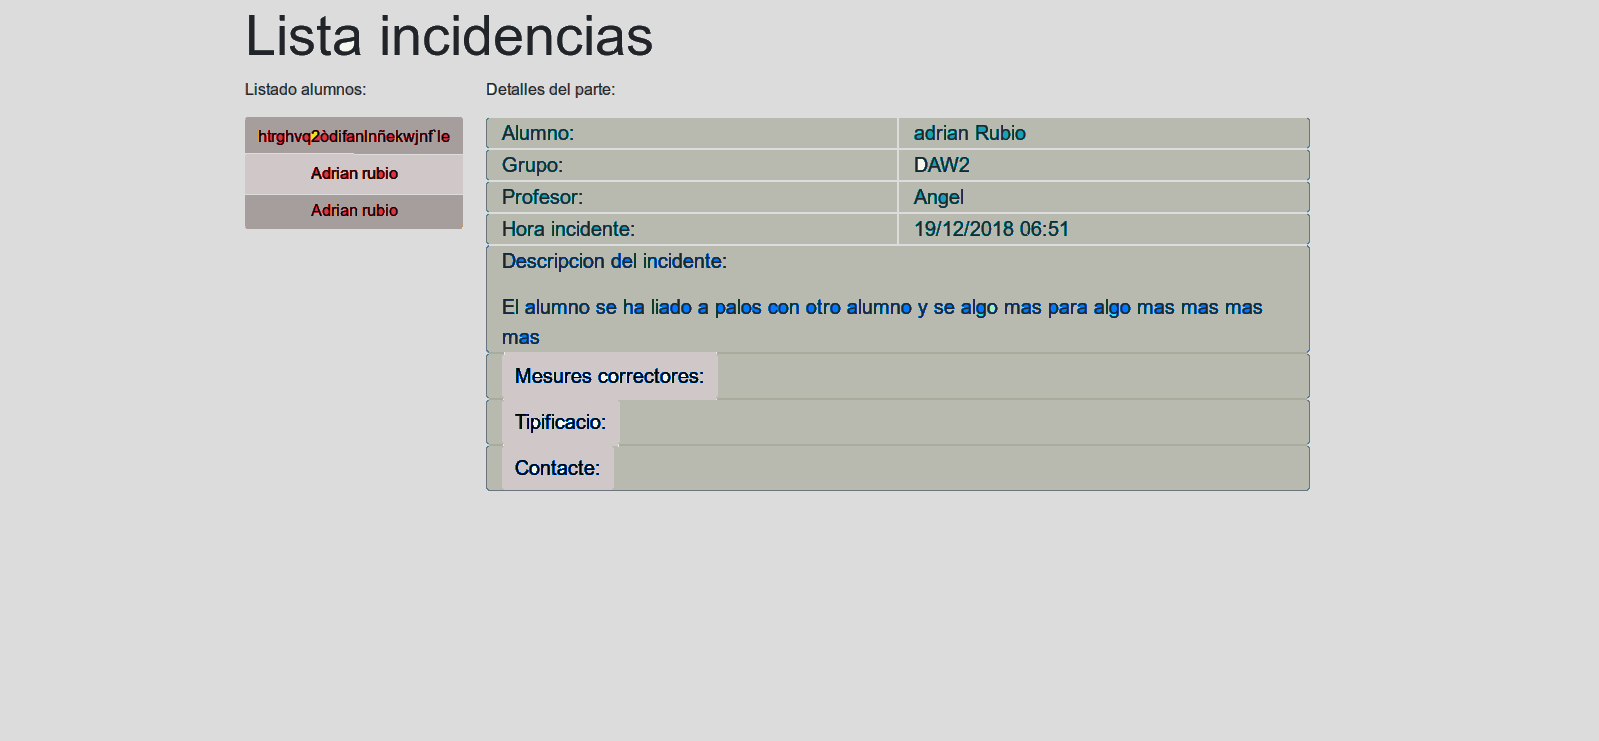
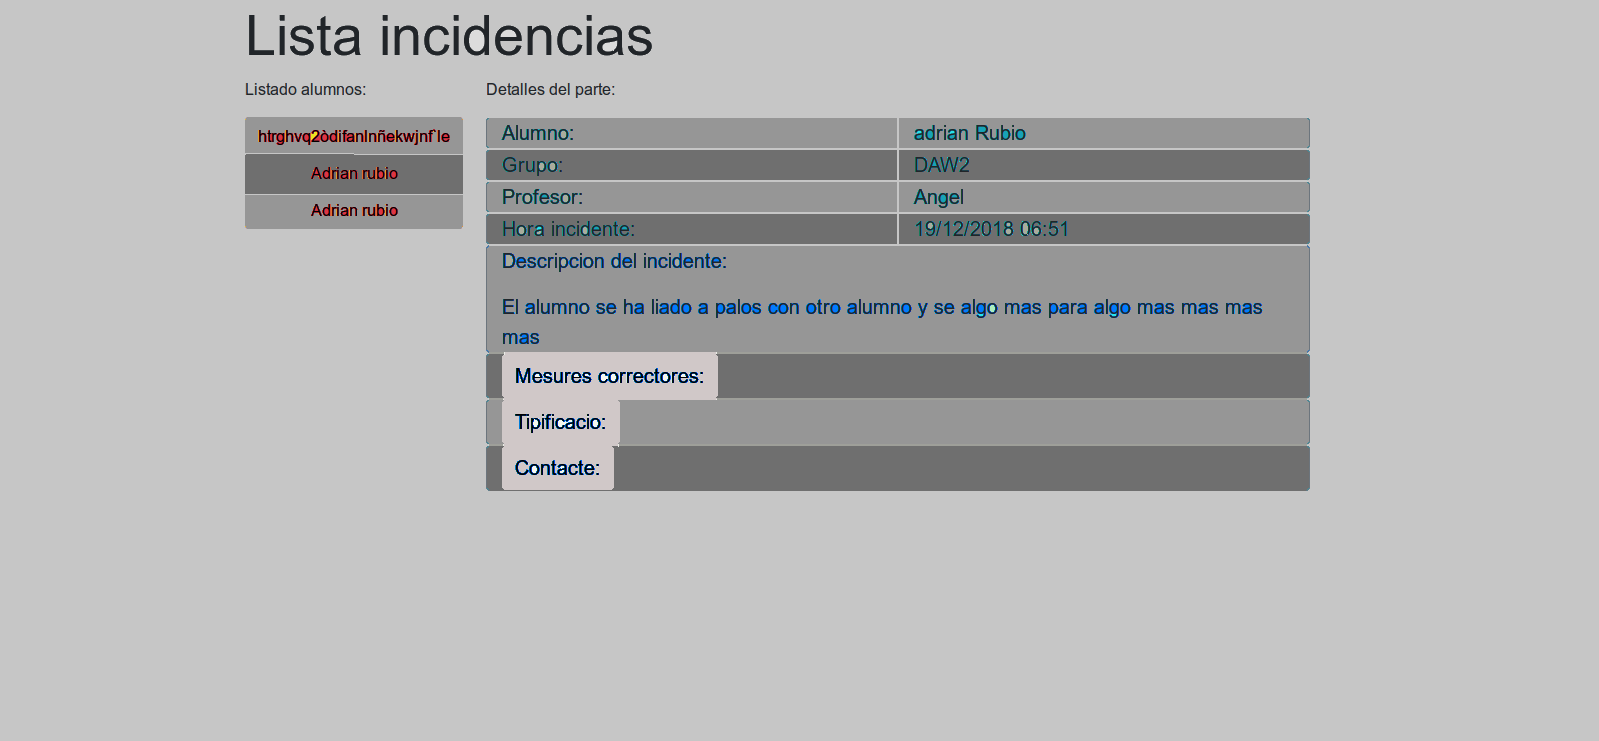
aniadido clases css de colores y aniadido las clases a los elemntos html

Changed region(s): [[0.1532, 0.1552, 0.8274, 0.6829]]

diff --git a/Tarea11/server/public/listar/listar.html b/Tarea11/server/public/listar/listar.html
@@ -52,20 +52,20 @@
           <div id="divInformacion" class="container row ">
 
             <!-- alert alert-success -->
-            <div class="col-sm border border-secondary rounded-left bg-info">
+            <div class="col-sm border border-secondary rounded-left gris1">
               Alumno:
             </div>
-            <div class="rellenar col-lg border border-secondary rounded-right bg-info">
+            <div class="rellenar col-lg border border-secondary rounded-right gris1">
               adrian Rubio
             </div>
           </div>
 
           <div id="divInformacion" class="container row ">
 
-            <div class="col-sm border border-secondary rounded-left bg-info">
+            <div class="col-sm border border-secondary rounded-left gris2">
               Grupo:
             </div>
-            <div class="rellenar col-lg border border-secondary rounded-right bg-info">
+            <div class="rellenar col-lg border border-secondary rounded-right gris2">
               DAW2
             </div>
 
@@ -73,10 +73,10 @@
 
           <div id="divInformacion" class="container row ">
 
-            <div class="col-sm border border-secondary rounded-left bg-info">
+            <div class="col-sm border border-secondary rounded-left gris1">
               Profesor:
             </div>
-            <div class="rellenar col-lg border border-secondary rounded-right bg-info">
+            <div class="rellenar col-lg border border-secondary rounded-right gris1">
               Angel
             </div>
 
@@ -84,10 +84,10 @@
 
           <div id="divInformacion" class="container row ">
 
-            <div class="col-sm border border-secondary rounded-left bg-info">
+            <div class="col-sm border border-secondary rounded-left gris2">
               Hora incidente:
             </div>
-            <div class="rellenar col-lg border border-secondary rounded-right bg-info">
+            <div class="rellenar col-lg border border-secondary rounded-right gris2">
               19/12/2018 06:51
             </div>
 
@@ -95,7 +95,7 @@
 
           <div id="divInformacion" class="container row ">
 
-            <div class="col-sm border border-secondary rounded bg-primary">
+            <div class="col-sm border border-secondary rounded gris1">
               <p>Descripcion del incidente:</p>
               <div class="rellenar">El alumno se ha liado a palos con otro alumno y se algo mas para algo mas mas mas
                 mas</div>
@@ -114,8 +114,8 @@
             </div>
  -->
           <div id="divInformacion" class="container row ">
-            <div class=" col-lg border border-secondary rounded bg-info">
-              <button class="size-20 btn btn-primary normalColor" type="button" data-toggle="collapse" data-target="#collapseExample"
+            <div class=" col-lg border border-secondary rounded gris2">
+              <button class="size-20 btn gris3 normalColor" type="button" data-toggle="collapse" data-target="#collapseExample"
                 aria-expanded="false" aria-controls="collapseExample">
                 Mesures correctores:
               </button>
@@ -129,9 +129,9 @@
           </div>
 
           <div id="divInformacion" class="container row ">
-            <div class=" col-lg border border-secondary rounded bg-info">
+            <div class=" col-lg border border-secondary rounded gris1">
 
-              <button class="size-20 btn btn-primary normalColor" type="button" data-toggle="collapse" data-target="#tipificacio"
+              <button class="size-20 btn gris3 normalColor" type="button" data-toggle="collapse" data-target="#tipificacio"
                 aria-expanded="false" aria-controls="collapseExample">
                 Tipificacio:
               </button>
@@ -146,9 +146,9 @@
           </div>
 
           <div id="divInformacion" class="container row ">
-            <div class=" col-lg border border-secondary rounded bg-info">
+            <div class=" col-lg border border-secondary rounded gris2">
 
-              <button class="size-20 btn btn-primary normalColor" type="button" data-toggle="collapse" data-target="#contacto"
+              <button class="size-20 btn gris3 normalColor" type="button" data-toggle="collapse" data-target="#contacto"
                 aria-expanded="false" aria-controls="collapseExample">
                 Contacte:
               </button>

diff --git a/Tarea11/server/public/listar/incidentesListar.js b/Tarea11/server/public/listar/incidentesListar.js
@@ -5,7 +5,7 @@ $.getJSON("http://localhost:3000/convivencia", function (data) {
   $.each(data, function (key, val) {
     /*   console.log(key); */
     /* <button type="button" class="btn btn-primary">Adrian</button> */
-    items.push("<button id='" + val._id + "' class='btn btn-danger botones normalColor'>" + val.alumno + "</button>");
+    items.push("<button id='" + val._id + "' class='btn  botones normalColor listaColor'>" + val.alumno + "</button>");
     /* items.push("<li id='" + val._id + "' class='list-group-item'>" + val.alumno + "</li>"); */
   });
 

diff --git a/Tarea11/server/public/listar/main.css b/Tarea11/server/public/listar/main.css
@@ -19,3 +19,22 @@ body{
 .normalColor{
     color: initial;
 }
+
+.gris1{
+    background-color: #969696;
+}
+
+.gris2{
+    background-color: #6f6f6f;
+}
+.gris3{
+    background-color: #d0c8c8;
+}
+
+
+.listaColor:nth-child(odd){
+    background-color: #969696;
+}
+.listaColor:nth-child(even){
+    background-color: #6f6f6f;
+}
